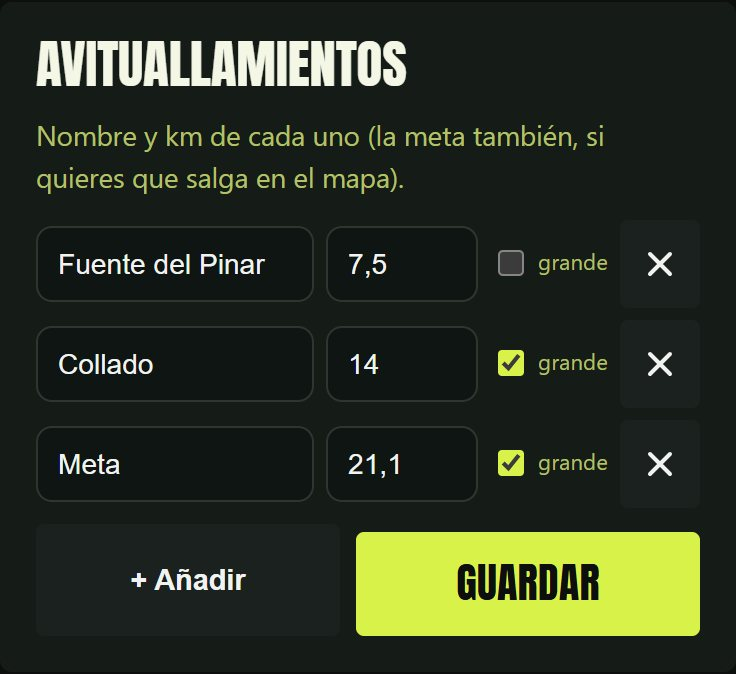
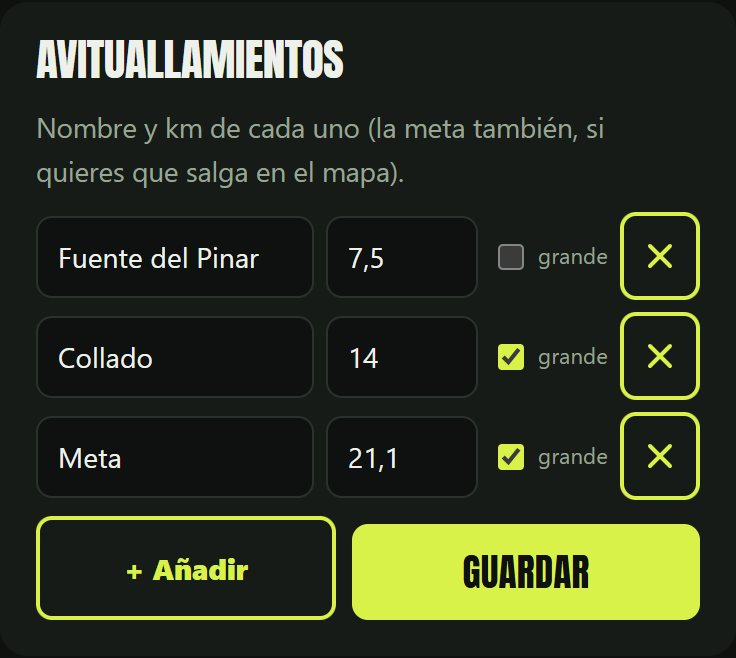
v1.50.0 · Panel y «Mis rutas» con el mismo diseño; capturas al día

diff --git a/cartel-panel.css b/cartel-panel.css
@@ -1,104 +1,96 @@
-/* El panel de admin y «Mis rutas» con el diseño cartel de la portada: lima, negro y letra condensada. */
+/* Panel del dueño y «Mis rutas» con el MISMO sistema que la web pública (cartel.css) y la página de la carrera
+   (directo.css): 1 fondo, 2 superficies, 1 acento; esquinas de 8 px (botones y campos), 10 px (pestañas) y 14 px
+   (tarjetas); explicaciones en gris; botón principal lima y secundario con borde. Escrita de cero: sustituye a la
+   hoja anterior y a su capa de parches. Va DESPUÉS de los estilos propios de cada página, para unificarlos. */
 @font-face { font-family: "Anton"; src: url("/fonts/anton.woff2") format("woff2"); font-weight: 400; font-style: normal; font-display: swap; }
 :root {
-  --accent: #d9f24a; --accent-dark: #0c0f0e; --bg: #0c0f0e; --panel: #151b17; --panel-2: #0f1512;
-  --muted: #b5c06a; --border: rgba(244, 247, 230, 0.14); --campo: #d9f24a; --tinta: #0c0f0e; --papel: #f4f7e6;
+  --fondo: #0e1110; --sup: #161b18; --sup2: #1f2622; --linea: rgba(238, 241, 234, 0.1);
+  --texto: #eef1ea; --suave: #9aa596; --acento: #d9f24a; --tinta: #0e1110; --aviso: #ffd27a;
+  --r1: 8px; --r2: 14px; --m: clamp(16px, 3vw, 36px);
   --display: "Anton", Impact, "Arial Narrow", sans-serif;
+  /* los nombres que usan los estilos de cada página: todos al mismo sistema */
+  --accent: var(--acento); --accent-dark: var(--tinta); --bg: var(--fondo); --panel: var(--sup); --panel-2: var(--sup2);
+  --muted: var(--suave); --border: var(--linea); --campo: var(--acento); --papel: var(--texto); --text: var(--texto);
 }
-body { background: #0c0f0e; background-attachment: scroll; }
+body { background: var(--fondo); color: var(--texto); }
+button, input, select, textarea { font-family: inherit; }
+a { color: var(--acento); }
+:focus-visible { outline: 3px solid var(--acento); outline-offset: 2px; }
+[hidden] { display: none !important; }
 
-/* la franja lima de arriba: nombre del sitio, enlaces y el título grande */
-.campo-cartel { background: var(--campo); color: var(--tinta); margin-bottom: 14px; }
-.barra-cartel { display: flex; justify-content: space-between; align-items: center; gap: 12px; padding: 6px 16px; font-weight: 800; max-width: 1240px; margin: 0 auto; }
-.barra-cartel a { color: inherit; text-decoration: none; min-height: 44px; display: inline-flex; align-items: center; }
-.barra-cartel nav { display: flex; gap: 20px; flex-wrap: wrap; justify-content: flex-end; }
-.barra-cartel nav a { text-decoration: underline; text-underline-offset: 4px; }
-.barra-cartel .marca-cartel { text-transform: uppercase; letter-spacing: 0.02em; }
-.campo-cartel .topbar { background: transparent; color: var(--tinta); border: 0; max-width: 1240px; margin: 0 auto; padding: 0 16px 12px;
-  display: flex; flex-direction: row; flex-wrap: wrap; align-items: center; gap: 12px; }
-.campo-cartel .topbar h1 { font: 400 clamp(1.9rem, 5vw, 2.6rem)/1 var(--display); text-transform: uppercase; letter-spacing: -0.005em; margin: 0; color: var(--tinta); }
+/* ---------- cabecera: como la de la web pública ---------- */
+.campo-cartel { background: var(--fondo); color: var(--texto); margin-bottom: 14px; border-bottom: 1px solid var(--linea); }
+.barra-cartel { display: flex; justify-content: space-between; align-items: center; gap: 12px; max-width: 1240px; margin: 0 auto; min-height: 56px; padding: 0 var(--m); }
+.barra-cartel a { display: inline-flex; align-items: center; min-height: 44px; color: inherit; text-decoration: none; }
+.barra-cartel .marca-cartel { font-weight: 800; font-size: 0.85rem; letter-spacing: 0.05em; text-transform: uppercase; }
+.barra-cartel nav { display: flex; flex-wrap: wrap; justify-content: flex-end; gap: 16px; }
+.barra-cartel nav a { color: var(--suave); font-weight: 700; font-size: 0.9rem; text-decoration: none; }
+.barra-cartel nav a:hover { color: var(--texto); }
+.campo-cartel .topbar { display: flex; flex-wrap: wrap; align-items: center; gap: 12px; max-width: 1240px; margin: 0 auto; padding: 6px var(--m) 14px;
+  background: none; border: 0; color: var(--texto); }
+.campo-cartel .topbar h1 { margin: 0; font: 400 clamp(1.9rem, 6vw, 2.8rem)/1.02 var(--display); text-transform: uppercase; color: var(--texto); }
 .campo-cartel .topbar h1 span { color: inherit; }
-.campo-cartel .pill-panel { background: var(--tinta); color: var(--accent); border-color: var(--tinta); font-weight: 700; }
-.campo-cartel .pill-panel.vivo { background: var(--tinta); color: var(--accent); }
+.sub-cab { color: var(--suave); font-weight: 500; }
+.pill-panel { border-radius: 999px; background: var(--sup2); color: var(--texto); border-color: var(--sup2); font-weight: 700; }
+.pill-panel.vivo { background: var(--acento); color: var(--tinta); border-color: var(--acento); }
 
-/* tarjetas, títulos y botones */
-.tarjeta { background: var(--panel); border-radius: 6px; }
-.tarjeta h2 { font: 400 1.65rem/1 var(--display); text-transform: uppercase; letter-spacing: 0; color: var(--papel); margin: 0 0 12px; }
-.save-btn { background: var(--accent) !important; color: var(--tinta) !important; font: 400 1.3rem/1 var(--display); text-transform: uppercase; letter-spacing: 0.01em; border-radius: 4px; padding: 16px; }
-.btn { border-radius: 4px; }
-.field input:focus, .field select:focus { outline: 2px solid var(--accent); }
-a { color: var(--accent); }
-
-/* las pestañas del panel */
-.pestanas { border-radius: 6px; background: rgba(21, 27, 23, 0.97); }
-.pestanas b { font-family: var(--display); font-weight: 400; text-transform: uppercase; letter-spacing: 0.01em; }
-.pestanas button[aria-selected="true"] { background: var(--accent); color: var(--tinta); }
-.pestanas button[aria-selected="true"] .n { background: var(--tinta); color: var(--accent); }
-.siguiente { background: #232c12; }
+/* ---------- tarjetas, títulos y explicaciones ---------- */
+.tarjeta, .siguiente, .inv-nuevo, .r-estado, .r-cifras div, .nuevo-aviso { border-radius: var(--r2); }
+.tarjeta { background: var(--sup); border: 0; }
+.tarjeta h2 { margin: 0 0 12px; font: 400 1.4rem/1 var(--display); text-transform: uppercase; color: var(--texto); }
+.howto, .sub, .estado-fila { color: var(--suave); }
+.siguiente, .inv-nuevo { background: #232c12; }
+.lista-prep li.ir { border-radius: 10px; }
 .lista-prep li.ir:hover, .lista-prep li.ir:focus-visible { background: #1d2412; }
-.inv-nuevo { background: #232c12; }
-@keyframes resalta { 0% { background: #3b4a14; } 100% { background: #151b17; } }
+@keyframes resalta { 0% { background: #3b4a14; } 100% { background: var(--sup); } }
 
-/* casillas y selectores con el lima de la marca (antes salían en el azul del sistema) */
-input[type="checkbox"], input[type="radio"] { accent-color: var(--accent); }
+/* ---------- botones: principal (lima) y secundario (borde lima) ---------- */
+.save-btn, .r-ir { border: 0; border-radius: var(--r1) !important; background: var(--acento) !important; color: var(--tinta) !important;
+  font: 400 1.15rem/1 var(--display); text-transform: uppercase; letter-spacing: 0.01em; padding: 14px 18px; min-height: 48px; cursor: pointer; }
+.btn { border-radius: var(--r1); background: transparent; color: var(--acento); box-shadow: inset 0 0 0 2px var(--acento); border: 0; font-weight: 800; min-height: 44px; }
+.btn.principal { background: var(--acento); color: var(--tinta); box-shadow: none; }
+.btn:hover, .save-btn:hover { filter: brightness(1.07); }
+.btn.peligro, .btn.stop-btn { color: #ff9a8a; box-shadow: inset 0 0 0 2px #ff9a8a; background: transparent; }
+.quitar-aviso { border-radius: var(--r1); }
 
-/* el botón de «elegir fichero» con el diseño de la web (antes, el gris del navegador) */
-input[type="file"]::file-selector-button { background: var(--accent); color: var(--tinta); border: 0; border-radius: 4px; padding: 8px 14px; margin-right: 12px; font: inherit; font-weight: 800; cursor: pointer; }
-input[type="file"]::file-selector-button:hover { filter: brightness(0.92); }
+/* ---------- campos ---------- */
+.field input, .field select, .field textarea, .fila-avit input, .fila-aviso textarea, input[type="text"], input[type="number"], input[type="password"], select, textarea {
+  border-radius: var(--r1); background: var(--fondo); color: var(--texto); border: 1px solid #2a322d; }
+.field input:focus, .field select:focus, .field textarea:focus { outline: 2px solid var(--acento); outline-offset: 0; }
+input[type="checkbox"], input[type="radio"] { accent-color: var(--acento); }
+input[type="file"]::file-selector-button { margin-right: 12px; padding: 8px 14px; border: 0; border-radius: var(--r1); background: var(--acento); color: var(--tinta); font: inherit; font-weight: 800; cursor: pointer; }
 
-/* botones de marca: llevan a la guía de cada reloj o móvil */
+/* ---------- pestañas del panel ---------- */
+.pestanas { border-radius: var(--r2); background: var(--sup); }
+.pestanas button { border-radius: 10px; }
+.pestanas b { font-family: var(--display); font-weight: 400; text-transform: uppercase; letter-spacing: 0.01em; }
+.pestanas button[aria-selected="true"] { background: var(--acento); color: var(--tinta); }
+.pestanas button[aria-selected="true"] .n { background: var(--tinta); color: var(--acento); }
+
+/* ---------- resumen de la carrera del panel ---------- */
+.resumen .r-estado { background: var(--sup); color: var(--texto); }
+.resumen .r-estado h2 { color: var(--texto); }
+.resumen .r-estado p { color: var(--suave); }
+.resumen .r-estado .pill-panel { background: var(--acento); color: var(--tinta); border-color: var(--acento); }
+.r-cifras div { background: var(--sup); }
+
+/* ---------- chips de marcas (como en la web pública) ---------- */
 .chips-marcas { display: flex; flex-wrap: wrap; gap: 8px; margin: 10px 0 6px; }
-.chips-marcas a { display: inline-flex; align-items: center; min-height: 44px; padding: 0 16px; border-radius: 22px; background: var(--campo); color: var(--tinta); font-weight: 800; text-decoration: none; transition: transform 0.15s; }
-.chips-marcas a:active { transform: scale(0.96); }
-.chips-marcas a:focus-visible { outline: 3px solid var(--papel, #f4f7e6); outline-offset: 2px; }
-@media (prefers-reduced-motion: reduce) { .chips-marcas a { transition: none; } }
+.chips-marcas a { display: inline-flex; align-items: center; min-height: 40px; padding: 0 14px; border-radius: 999px; background: var(--sup2); color: var(--texto); font-weight: 700; font-size: 0.9rem; text-decoration: none; }
 
-/* guía de primera vez y botón de ayuda */
-.btn-guia { margin-left: auto; background: var(--tinta); color: var(--campo); border: 0; border-radius: 20px; padding: 8px 16px; font: inherit; font-weight: 800; min-height: 44px; cursor: pointer; }
-.btn-guia[hidden] { display: none; }
-.btn-guia:focus-visible { outline: 3px solid var(--tinta); outline-offset: 3px; }
-#guia-foco { position: fixed; z-index: 60; border-radius: 10px; box-shadow: 0 0 0 9999px rgba(8, 10, 9, 0.78); outline: 3px solid var(--campo); pointer-events: none; transition: left 0.25s, top 0.25s, width 0.25s, height 0.25s; }
-#guia-tarjeta { position: fixed; z-index: 61; left: 12px; right: 12px; bottom: 12px; background: var(--papel); color: var(--tinta); border-radius: 12px; padding: 18px 20px; box-shadow: 0 10px 40px rgba(0, 0, 0, 0.5); }
+/* ---------- guía de primera vez y botón de ayuda ---------- */
+.btn-guia { margin-left: auto; min-height: 44px; padding: 8px 16px; border: 0; border-radius: var(--r1); background: var(--sup2); color: var(--acento); font: inherit; font-weight: 800; cursor: pointer; }
+#guia-foco { position: fixed; z-index: 60; border-radius: 10px; box-shadow: 0 0 0 9999px rgba(8, 10, 9, 0.78); outline: 3px solid var(--acento); pointer-events: none; transition: left 0.25s, top 0.25s, width 0.25s, height 0.25s; }
+#guia-tarjeta { position: fixed; z-index: 61; left: 12px; right: 12px; bottom: 12px; padding: 18px 20px; border-radius: var(--r2); background: var(--sup); color: var(--texto);
+  box-shadow: 0 0 0 2px var(--acento), 0 18px 50px rgba(0, 0, 0, 0.6); }
 #guia-tarjeta.arriba { top: 12px; bottom: auto; }
-#guia-tarjeta[hidden], #guia-foco[hidden] { display: none; }
-.guia-paso { margin: 0 0 4px; font-weight: 800; font-size: 0.8rem; text-transform: uppercase; letter-spacing: 0.06em; color: #5a6320; }
-#guia-tarjeta h2 { font: 400 1.9rem/1.05 var(--display); text-transform: uppercase; margin: 0 0 8px; color: var(--tinta); }
-#guia-texto { margin: 0 0 14px; font-size: 1.02rem; line-height: 1.5; }
-.guia-botones { display: flex; gap: 10px; align-items: center; flex-wrap: wrap; }
-.guia-botones button { font: inherit; font-weight: 800; border-radius: 8px; padding: 12px 18px; min-height: 44px; cursor: pointer; border: 2px solid var(--tinta); }
-.guia-sig { margin-left: auto; background: var(--tinta); color: var(--campo); }
-.guia-atras { background: transparent; color: var(--tinta); }
-.guia-saltar { background: transparent; color: #4a5217; border-color: transparent !important; text-decoration: underline; padding-left: 0 !important; }
-.guia-botones button:focus-visible { outline: 3px solid #5a6320; outline-offset: 2px; }
+#guia-tarjeta h2 { margin: 0 0 8px; font: 400 1.6rem/1.05 var(--display); text-transform: uppercase; color: var(--texto); }
+.guia-paso { margin: 0 0 4px; font-weight: 800; font-size: 0.8rem; text-transform: uppercase; letter-spacing: 0.06em; color: var(--acento); }
+#guia-texto { margin: 0 0 14px; font-size: 1rem; line-height: 1.5; }
+.guia-botones { display: flex; flex-wrap: wrap; align-items: center; gap: 10px; }
+.guia-botones button { min-height: 44px; padding: 12px 18px; border: 0; border-radius: var(--r1); font: inherit; font-weight: 800; cursor: pointer; }
+.guia-sig { margin-left: auto; background: var(--acento); color: var(--tinta); }
+.guia-atras { background: transparent; color: var(--acento); box-shadow: inset 0 0 0 2px var(--acento); }
+.guia-saltar { background: transparent; color: var(--suave); text-decoration: underline; padding-left: 0 !important; }
 @media (min-width: 760px) { #guia-tarjeta { left: auto; right: 24px; bottom: 24px; width: 440px; } #guia-tarjeta.arriba { top: 24px; bottom: auto; } }
 @media (prefers-reduced-motion: reduce) { #guia-foco { transition: none; } }
-
-/* ================= v1.46 · el mismo diseño oscuro que la web pública ================= */
-/* cabecera: oscura, con la misma barra (nombre a la izquierda, enlaces en gris a la derecha) */
-body .campo-cartel { background: #0e1110; color: var(--papel); border-bottom: 1px solid rgba(244, 247, 230, 0.1); }
-body .barra-cartel { padding-left: clamp(16px, 3vw, 36px); padding-right: clamp(16px, 3vw, 36px); }
-body .barra-cartel .marca-cartel { color: var(--papel); }
-body .barra-cartel nav a { color: #9aa596; text-decoration: none; }
-body .barra-cartel nav a:hover { color: var(--papel); }
-body .campo-cartel .topbar { color: var(--papel); padding-left: clamp(16px, 3vw, 36px); padding-right: clamp(16px, 3vw, 36px); }
-body .campo-cartel .topbar h1 { color: var(--papel); font-size: clamp(2.1rem, 5vw, 3rem); }
-body .sub-cab { color: #cfd6cc; font-weight: 500; }
-body .campo-cartel .pill-panel { background: #1d2420; color: var(--papel); border-color: #1d2420; }
-body .campo-cartel .pill-panel.vivo { background: var(--campo); color: var(--tinta); }
-body .btn-guia { background: #1d2420; color: var(--campo); }
-body .btn-guia:hover { background: #27302b; }
-body .campo-cartel :focus-visible { outline-color: var(--campo); }
-/* resumen de la carrera del panel: tarjeta oscura; el lima solo en la etiqueta y el botón */
-body .resumen .r-estado { background: #151a17; color: var(--papel); border-radius: 20px; }
-body .resumen .r-estado h2 { color: var(--papel); }
-body .resumen .r-estado p { color: #cfd6cc; }
-body .resumen .r-estado .pill-panel { background: var(--campo); color: var(--tinta); border-color: var(--campo); }
-body .resumen .r-ir { background: var(--campo); color: var(--tinta); border-radius: 12px; }
-/* chips de marcas iguales que en la web pública */
-body .chips-marcas a { background: #1d2420; color: var(--papel); }
-/* la guía de primera vez: tarjeta oscura con borde lima (antes, blanca) */
-body #guia-tarjeta { background: #151a17; color: var(--papel); box-shadow: 0 0 0 2px var(--campo), 0 18px 50px rgba(0, 0, 0, 0.6); }
-body #guia-tarjeta h2, body #guia-tarjeta h3, body #guia-tarjeta p { color: var(--papel); }
-body #guia-tarjeta .guia-paso, body #guia-tarjeta small { color: var(--campo); }
-body #guia-tarjeta button:not(.guia-sig), body #guia-tarjeta a { color: #cfd6cc; }
-body .guia-sig { background: var(--campo); color: var(--tinta); }

diff --git a/admin.html b/admin.html
@@ -278,7 +278,7 @@
   .inv-nuevo .btn { margin-top: 8px; }
   .inv-codigo { font: 700 1.5rem/1.3 ui-monospace, Menlo, Consolas, monospace; letter-spacing: 0.06em; color: #d9f24a; user-select: all; margin: 8px 0; }
 </style>
-<link rel="stylesheet" href="/cartel-panel.css?v=4">
+<link rel="stylesheet" href="/cartel-panel.css?v=6">
 </head>
 <body>
 <div class="campo-cartel">

diff --git a/mis-rutas.html b/mis-rutas.html
@@ -7,7 +7,7 @@
 <meta name="theme-color" content="#0e1110">
 <title>Mis rutas</title>
 <link rel="icon" href="/favicon.png?v=4">
-<link rel="stylesheet" href="/cartel-panel.css?v=4">
+<link rel="stylesheet" href="/cartel-panel.css?v=6">
 <style>
   * { box-sizing: border-box; }
   html { -webkit-text-size-adjust: 100%; }

diff --git a/CHANGELOG.md b/CHANGELOG.md
@@ -4,6 +4,10 @@ Versiones con [SemVer](https://semver.org/lang/es/): la última cifra para
 arreglos, la del medio para funciones nuevas. Cada una tiene su etiqueta y su
 release en GitHub.
 
+## v1.50.0 · 2026-10-30
+- **Panel y «Mis rutas» con la misma hoja limpia que el resto de la web** (`cartel-panel.css` escrita de cero): cabecera igual que la pública (enlaces en gris, sin subrayar), explicaciones en gris (antes en verde oliva), esquinas de 8/10/14 px, botón principal lima y secundario con borde lima, y lo peligroso (borrar, parar) en rojo.
+- **Capturas del repo al día** con todo el diseño nuevo: la página de la carrera (mapa limpio y datos de arriba abajo), la guía de relojes y el panel con «Perfil y avisos».
+
 ## v1.49.0 · 2026-10-30
 - **Páginas públicas con una sola hoja escrita de cero** (`cartel.css`), con el mismo sistema que la página de la carrera: portada, carreras, rutas, la página de cada ruta, la guía y la de la app. Medido: 3 radios de esquina, 2 estilos de botón y 2 familias de letra en todas.
 - **Guía de relojes rehecha:** qué hace la web con tu reloj (avisos, ruta, directo y resultado, y qué hace falta para cada cosa), una tabla por marca (avisos, ruta, mapa) y una ficha por marca con los modelos que sí y los que no, sacados de las webs de soporte de cada marca. Ahora también Polar, Suunto y Apple Watch. Donde depende del modelo pone «Algunos», no «Sí».

diff --git a/README.md b/README.md
@@ -11,7 +11,7 @@
 </p>
 
 <p align="center">
-  <img alt="versión" src="https://img.shields.io/badge/versión-v1.49.0-1f8a4c">
+  <img alt="versión" src="https://img.shields.io/badge/versión-v1.50.0-1f8a4c">
   <img alt="Python" src="https://img.shields.io/badge/servidor-Python%203%20·%20stdlib-3776ab">
   <img alt="MapLibre" src="https://img.shields.io/badge/mapa-MapLibre%204.7-396cb2">
   <img alt="Zepp OS" src="https://img.shields.io/badge/reloj-Zepp%20OS%203-ff6a00">
